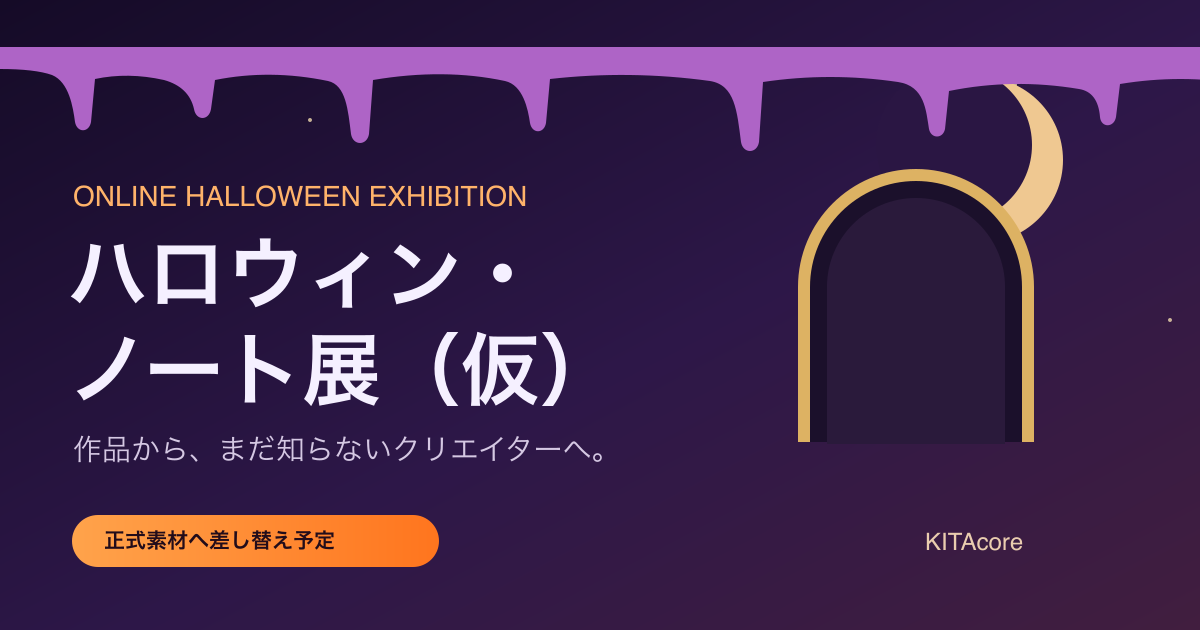
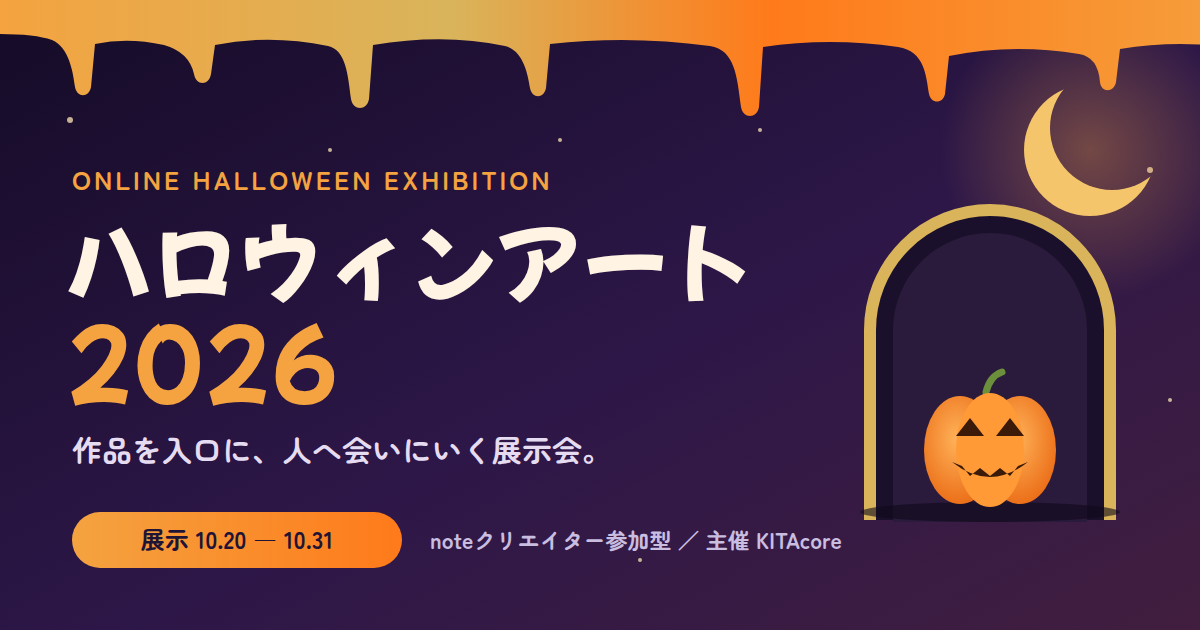
feat: リンクプレビュー（OGP）を「ハロウィンアート2026」に更新
- OGP画像を新しい企画名・キャッチ・展示期間で作り直す（Mochiy Pop One / Zen Maru Gothic で描画）
- og:url / og:image（絶対URL）/ og:site_name / canonical / twitter:* を追加
- 画像URLに ?v=2 を付け、プレビュー側の古い画像キャッシュを避ける

Claude-Session: https://claude.ai/code/session_01Dzkdy4mHTGmanMQ4csWEFZ

diff --git a/index.html b/index.html
@@ -8,8 +8,20 @@
   <meta property="og:title" content="ハロウィンアート2026">
   <meta property="og:description" content="ハロウィンアート2026の展示サイト。ハロウィンに関わる作品や自己紹介のnote記事を持ち寄る、ゆるいオンライン展示会です。展示は10月20日〜31日。">
   <meta property="og:type" content="website">
+  <meta property="og:site_name" content="ハロウィンアート2026">
+  <meta property="og:locale" content="ja_JP">
+  <!-- SNS・noteのリンクプレビュー用。公開URLを変えたら og:url / og:image / canonical も合わせて変える。
+       画像を差し替えたら ?v= の数字を上げる（プレビュー側の画像キャッシュを避けるため） -->
+  <link rel="canonical" href="https://goo-dev0505.github.io/halloween-gallery/">
+  <meta property="og:url" content="https://goo-dev0505.github.io/halloween-gallery/">
+  <meta property="og:image" content="https://goo-dev0505.github.io/halloween-gallery/assets/ogp.png?v=2">
+  <meta property="og:image:width" content="1200">
+  <meta property="og:image:height" content="630">
+  <meta property="og:image:alt" content="ハロウィンアート2026　作品を入口に、人へ会いにいく展示会。展示 10.20〜10.31">
   <meta name="twitter:card" content="summary_large_image">
-  <!-- 公開時に og:image を追加し、assets/ogp.png の絶対URLへ置換（公開ドメイン未確定） -->
+  <meta name="twitter:title" content="ハロウィンアート2026">
+  <meta name="twitter:description" content="ハロウィンアート2026の展示サイト。ハロウィンに関わる作品や自己紹介のnote記事を持ち寄る、ゆるいオンライン展示会です。展示は10月20日〜31日。">
+  <meta name="twitter:image" content="https://goo-dev0505.github.io/halloween-gallery/assets/ogp.png?v=2">
   <title>ハロウィンアート2026</title>
   <link rel="preconnect" href="https://fonts.googleapis.com">
   <link rel="preconnect" href="https://fonts.gstatic.com" crossorigin>
